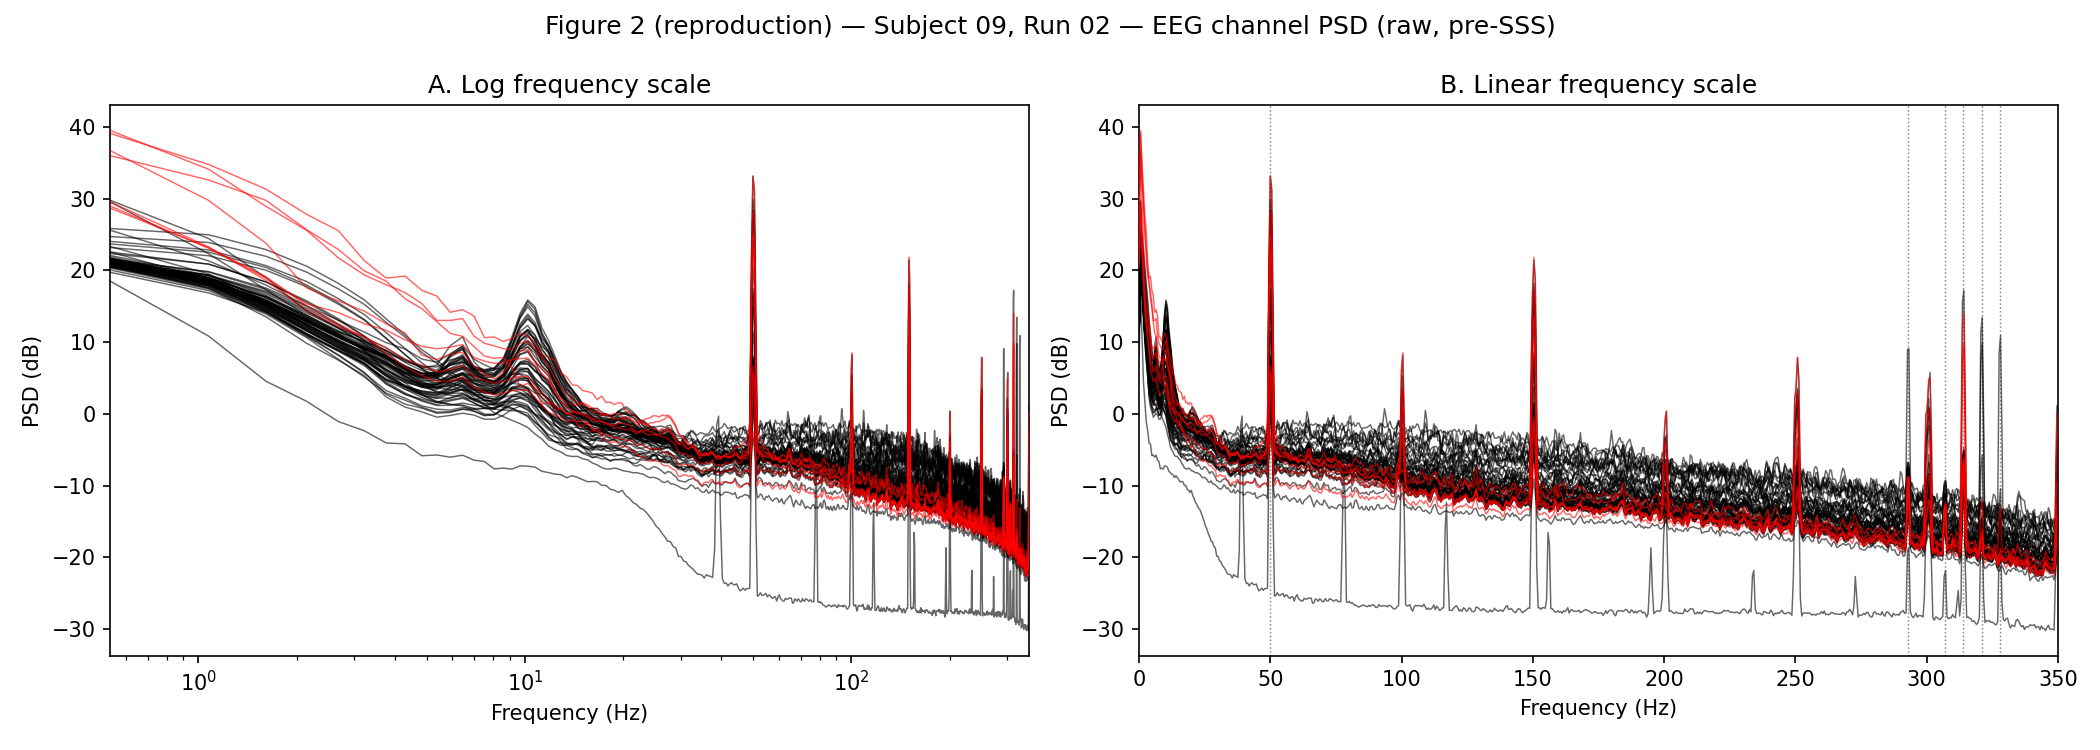
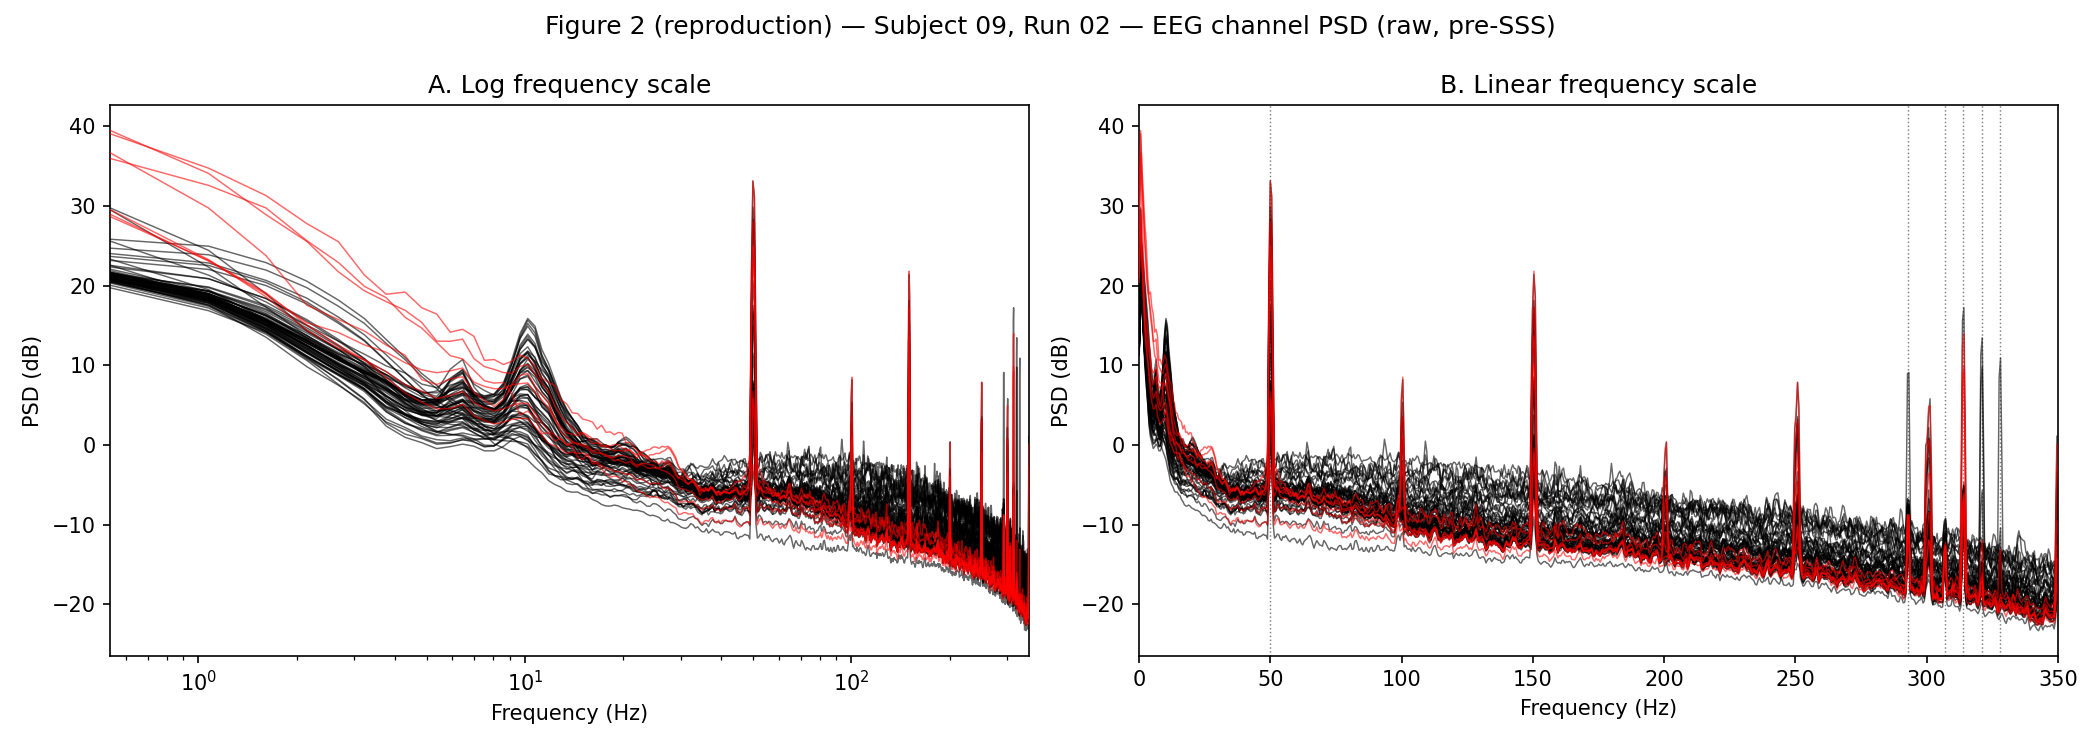
Fix Figure 2: exclude EEG064, a permanently free-floating electrode
Found via user review: the log-scale panel had one channel sitting
~10dB below all others with an unrelated ~39 Hz harmonic series
(39/78/117/156/195/234 Hz) -- not line noise (50 Hz) or cHPI (293-328 Hz).

Root cause: the actual plot_psd.py source (fetched as literal raw text
this time, not an AI summary -- the earlier summary had silently dropped
this) explicitly retypes EEG064 to "misc" with the comment "EEG064 free
floating el." before picking EEG channels. An unconnected input acts as
an antenna for ambient interference, explaining both the lower baseline
and the extra unexplained peaks. Now excluded here too: 71 -> 70 EEG
channels, matching the dataset's own documented EEGChannelCount exactly.

diff --git a/local_scripts/WakemanRepro/figures/fig2_psd.py b/local_scripts/WakemanRepro/figures/fig2_psd.py
@@ -60,7 +60,18 @@ HPI_FREQS = [293, 307, 314, 321, 328]
 def load_eeg_raw(raw_path, bad_channels):
     raw = mne.io.read_raw_fif(raw_path, allow_maxshield=True, verbose=False)
     raw.load_data(verbose=False)
-    raw.set_channel_types({"EEG061": "eog", "EEG062": "eog", "EEG063": "ecg"})
+    # EEG064 is a permanently free-floating (unconnected) electrode for
+    # this system/study -- explicitly excluded in the actual plot_psd.py
+    # source (retyped "misc", with that exact comment) before picking EEG
+    # channels. Missed in an earlier draft of this script (only found via
+    # fetching the script's literal raw text, not an AI-summarized read of
+    # it -- the summary silently dropped this 4th remapping). Left in
+    # without exclusion, it shows a ~10dB-lower baseline and an unrelated
+    # ~39 Hz harmonic series (39/78/117/156/195/234 Hz) picked up as
+    # ambient interference, having nothing to do with line noise (50 Hz)
+    # or the cHPI coils (293-328 Hz) -- consistent with an unconnected
+    # input acting as an antenna, not a real recording artifact.
+    raw.set_channel_types({"EEG061": "eog", "EEG062": "eog", "EEG063": "ecg", "EEG064": "misc"})
     raw.info["bads"] = list(bad_channels)
     return raw
 
